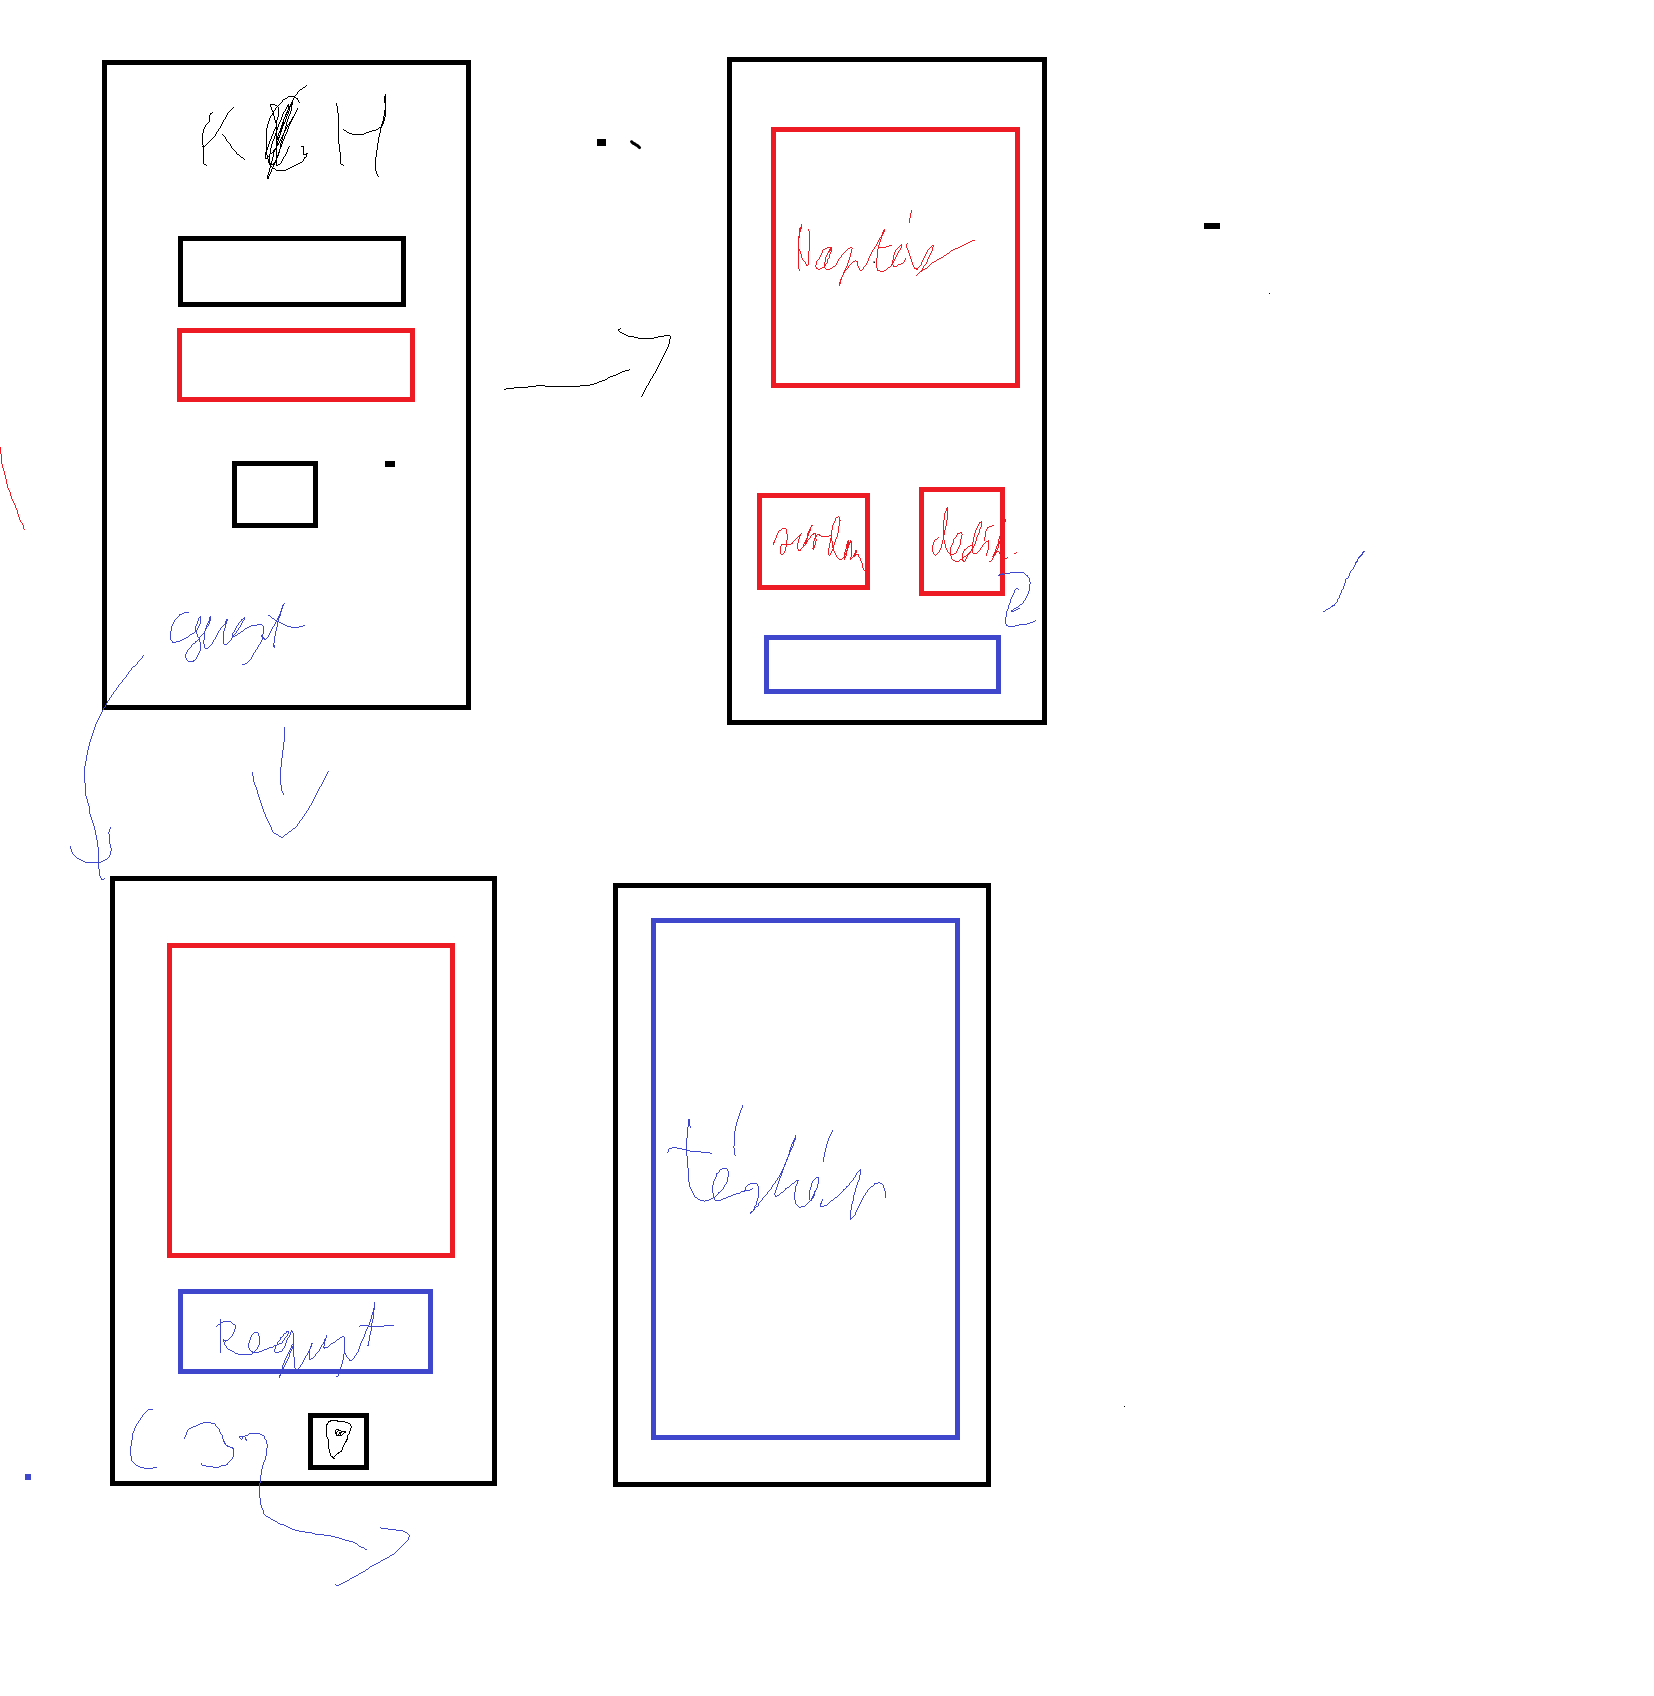
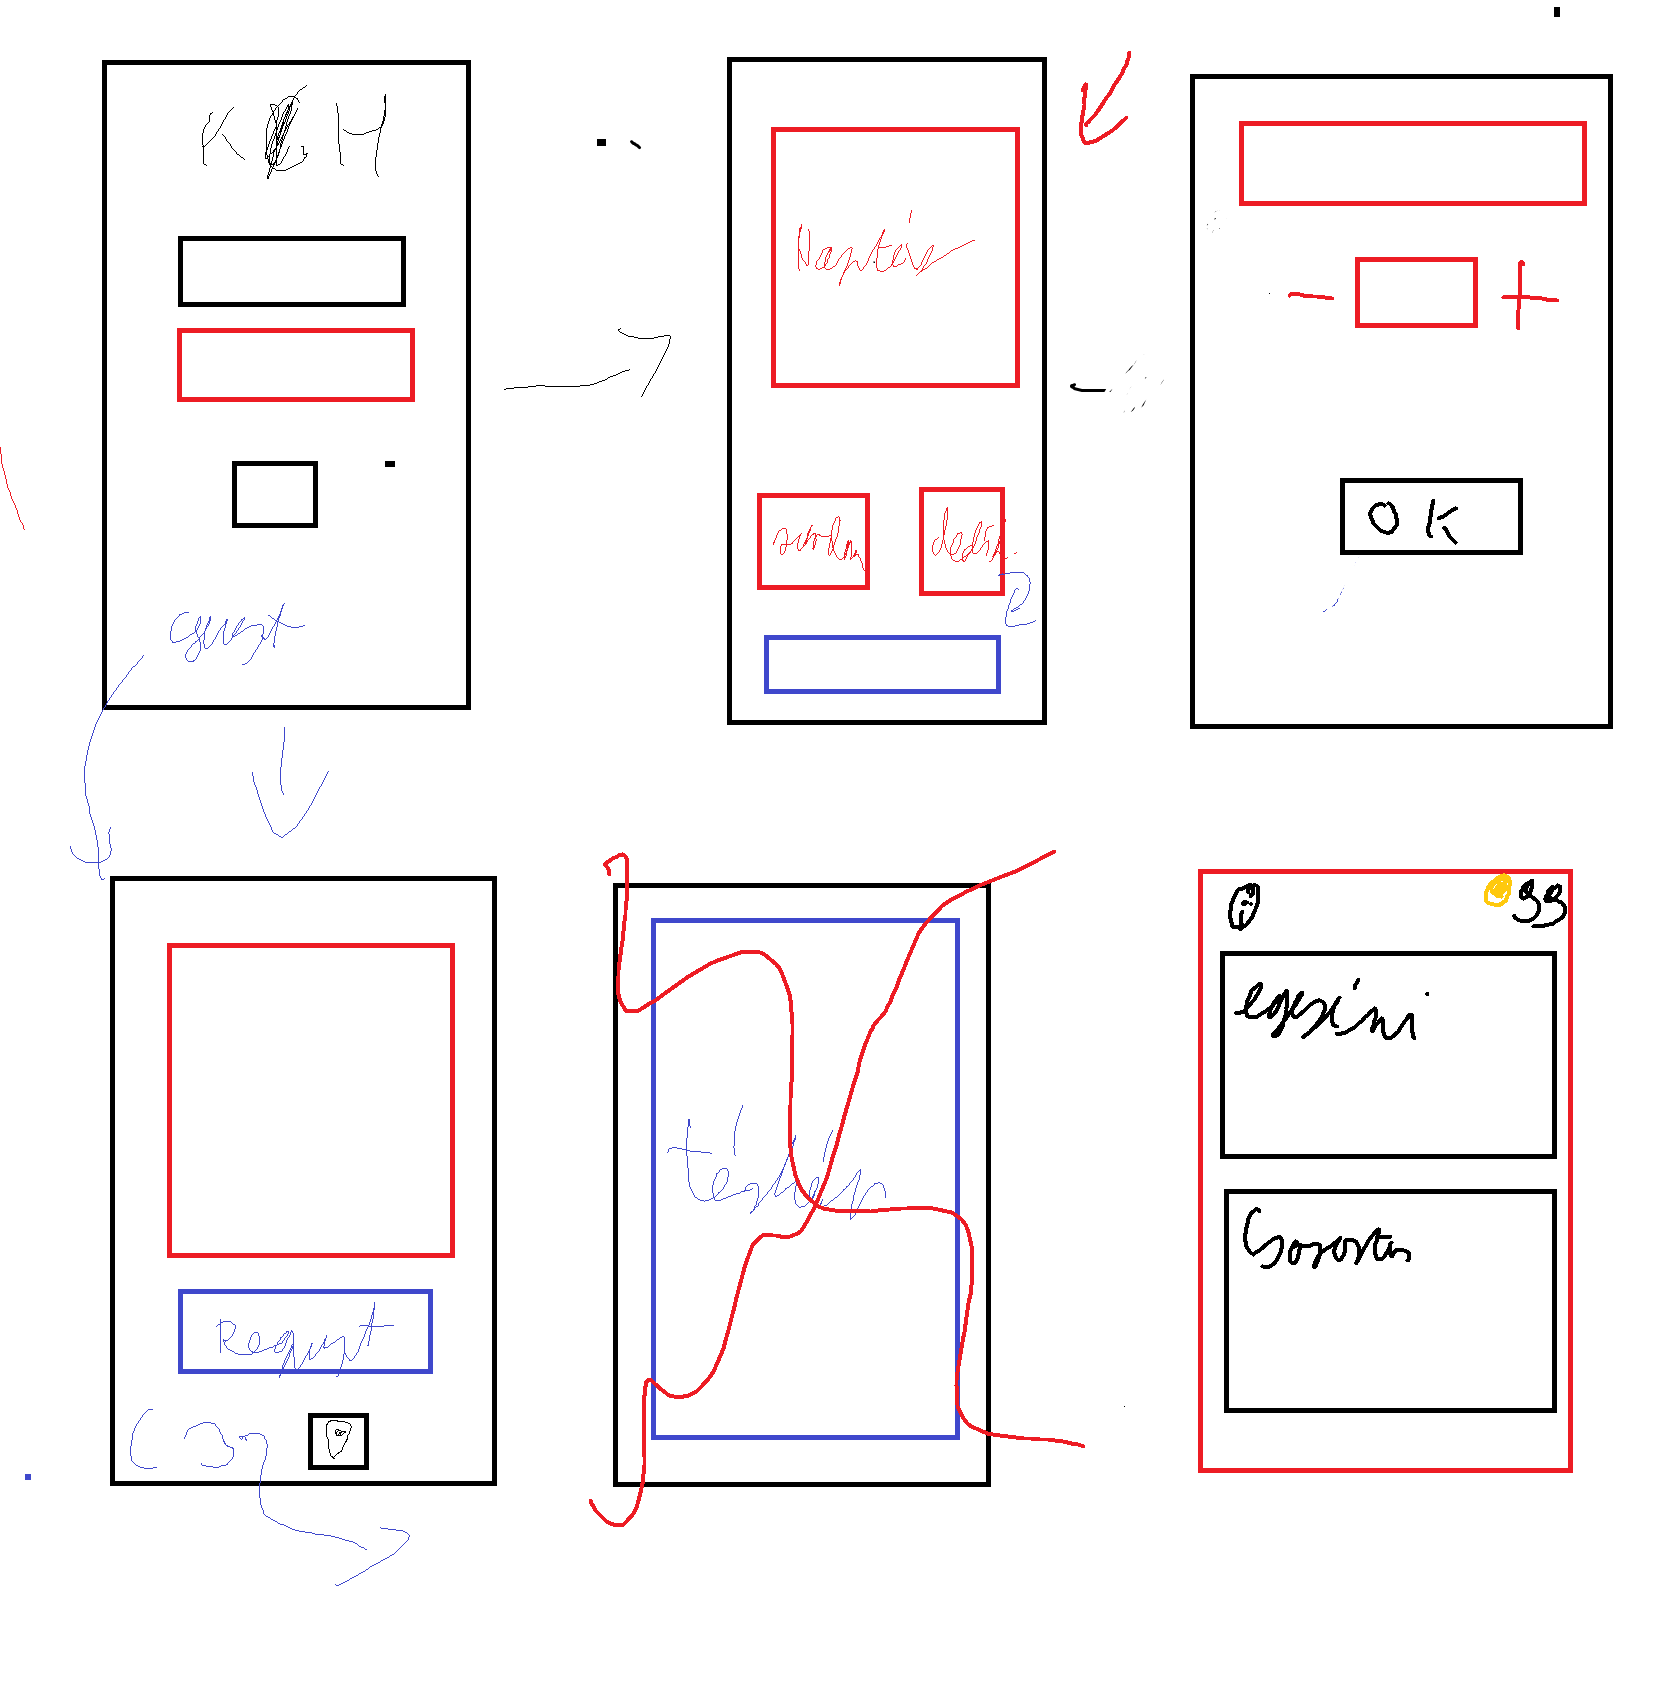
design

diff --git a/style.css b/style.css
@@ -76,14 +76,14 @@ html, body{
 #logindiv{
     background-color: rgb(0, 174, 239);
     display: flex;
-    height: 30%;
+    height: 40%;
     flex-direction: column;
     justify-content: center;
     margin-top: 20%;
     margin-bottom: 20%;
     padding: 10%;
     border-radius: 25px;
-    width: 65%;
+    width: 80%;
     align-self: center;
 }
 
@@ -91,8 +91,22 @@ html, body{
     background-color: rgb(0, 174, 239);
     display: flex;
     justify-content: center;
-    padding: 3%;
-    height: 300px;
+    height: 80px;
+    width: 100%;
+    position: fixed;
+    top: 0;
+}
+
+.bottomrow{
+    background-color: rgb(0, 174, 239);
+    display: flex;
+    justify-content: center;
+    height: 80px;
+    width: 100%;
+    position: fixed;
+    bottom: 0;
+    color: #fff;
+    font-size: 20px;
 }
 
 .logininput{
@@ -122,9 +136,149 @@ html, body{
     width:30%;
     align-self: center;
     /* background-color: rgba(228, 241, 253, 0.15); */
-    /* border-radius: 50%; */
+    border-radius: 5%;
 }
 
 .forgetpassword{
     align-self: center;
+}
+
+
+/* keres.html, atad.html */
+/* CALENDAR */
+@import url('https://fonts.googleapis.com/css2?family=Poppins:wght@400;500;600&display=swap');
+*{
+  margin: 0;
+  padding: 0;
+  box-sizing: border-box;
+  font-family: 'Poppins', sans-serif;
+}
+
+.parkreq{
+    display: flex;
+    flex-direction: column;
+    justify-content: center;
+    align-items: center;
+    height: 70%;
+    margin: 4%;
+    border-radius: 20px;
+    padding: 5%;
+    background: rgb(0, 174, 239);
+}
+body.maincalendar{
+  display: flex;
+  align-items: center;
+  justify-content: center;
+  
+  width: 100%;
+}
+.wrapper{
+  width: 100%;
+  background: #fff;
+  border-radius: 10px;
+  box-shadow: 0 15px 40px rgba(0,0,0,0.12);
+  align-self: center;
+}
+.wrapper header{
+  display: flex;
+  align-items: center;
+  padding: 25px 30px 10px;
+  justify-content: space-between;
+}
+header .icons{
+  display: flex;
+}
+header .icons span{
+  height: 38px;
+  width: 38px;
+  margin: 0 1px;
+  cursor: pointer;
+  color: #878787;
+  text-align: center;
+  line-height: 38px;
+  font-size: 1.9rem;
+  user-select: none;
+  border-radius: 50%;
+}
+.icons span:last-child{
+  margin-right: -10px;
+}
+header .icons span:hover{
+  background: #f2f2f2;
+}
+header .current-date{
+  font-size: 1.45rem;
+  font-weight: 500;
+}
+.calendar{
+  padding: 20px;
+}
+.calendar ul{
+  display: flex;
+  flex-wrap: wrap;
+  list-style: none;
+  text-align: center;
+}
+.calendar .days{
+  margin-bottom: 20px;
+}
+.calendar li{
+  color: #333;
+  width: calc(100% / 7);
+  font-size: 1.07rem;
+}
+.calendar .weeks li{
+  font-weight: 500;
+  cursor: default;
+}
+.calendar .days li{
+  z-index: 1;
+  cursor: pointer;
+  position: relative;
+  margin-top: 30px;
+}
+.days li.inactive{
+  color: #aaa;
+}
+.days li.active{
+  color: #fff;
+}
+.days li::before{
+  position: absolute;
+  content: "";
+  left: 50%;
+  top: 50%;
+  height: 40px;
+  width: 40px;
+  z-index: -1;
+  border-radius: 50%;
+  transform: translate(-50%, -50%);
+}
+.days li.active::before{
+  background: rgb(0, 174, 239);
+}
+.days li:not(.active):hover::before{
+  background: #f2f2f2;
+}
+
+.calendarbutton{
+    height: 10%;
+    width: 60%;
+    border-radius: 10px;
+    border: none;
+    background-color: rgb(0, 55, 103);
+    color: white;
+    font-size: 25px;
+    margin: 5%;
+}
+.atadbtdiv{
+    display: flex;
+}
+.atadbtdiv .calendarbutton{
+    height: 80%
+}
+
+.toprow .khlogo{
+    height: 100%;
+    width: auto;
 }

diff --git a/test.js b/test.js
@@ -1,0 +1,55 @@
+const daysTag = document.querySelector(".days"),
+currentDate = document.querySelector(".current-date"),
+prevNextIcon = document.querySelectorAll(".icons span");
+
+// getting new date, current year and month
+let date = new Date(),
+currYear = date.getFullYear(),
+currMonth = date.getMonth();
+
+// storing full name of all months in array
+const months = ["January", "February", "March", "April", "May", "June", "July",
+              "August", "September", "October", "November", "December"];
+
+const renderCalendar = () => {
+    let firstDayofMonth = new Date(currYear, currMonth, 1).getDay(), // getting first day of month
+    lastDateofMonth = new Date(currYear, currMonth + 1, 0).getDate(), // getting last date of month
+    lastDayofMonth = new Date(currYear, currMonth, lastDateofMonth).getDay(), // getting last day of month
+    lastDateofLastMonth = new Date(currYear, currMonth, 0).getDate(); // getting last date of previous month
+    let liTag = "";
+
+    for (let i = firstDayofMonth; i > 0; i--) { // creating li of previous month last days
+        liTag += `<li class="inactive">${lastDateofLastMonth - i + 1}</li>`;
+    }
+
+    for (let i = 1; i <= lastDateofMonth; i++) { // creating li of all days of current month
+        // adding active class to li if the current day, month, and year matched
+        let isToday = i === date.getDate() && currMonth === new Date().getMonth() 
+                     && currYear === new Date().getFullYear() ? "active" : "";
+        liTag += `<li class="${isToday}">${i}</li>`;
+    }
+
+    for (let i = lastDayofMonth; i < 6; i++) { // creating li of next month first days
+        liTag += `<li class="inactive">${i - lastDayofMonth + 1}</li>`
+    }
+    currentDate.innerText = `${months[currMonth]} ${currYear}`; // passing current mon and yr as currentDate text
+    daysTag.innerHTML = liTag;
+}
+renderCalendar();
+
+prevNextIcon.forEach(icon => { // getting prev and next icons
+    icon.addEventListener("click", () => { // adding click event on both icons
+        // if clicked icon is previous icon then decrement current month by 1 else increment it by 1
+        currMonth = icon.id === "prev" ? currMonth - 1 : currMonth + 1;
+
+        if(currMonth < 0 || currMonth > 11) { // if current month is less than 0 or greater than 11
+            // creating a new date of current year & month and pass it as date value
+            date = new Date(currYear, currMonth, new Date().getDate());
+            currYear = date.getFullYear(); // updating current year with new date year
+            currMonth = date.getMonth(); // updating current month with new date month
+        } else {
+            date = new Date(); // pass the current date as date value
+        }
+        renderCalendar(); // calling renderCalendar function
+    });
+});

diff --git a/atad2.html b/atad2.html
@@ -1,18 +1,19 @@
 <!DOCTYPE html>
-<html lang="en">
-   
-<head>
-    <link rel="stylesheet" href="https://fonts.googleapis.com/css2?family=Material+Symbols+Rounded:opsz,wght,FILL,GRAD@20..48,100..700,0..1,-50..200">
+<!-- Coding By CodingNepal - youtube.com/codingnepal -->
+<html lang="en" dir="ltr">
+  <head>
+    <meta charset="utf-8">
+    <title>Dynamic Calendar JavaScript | CodingNepal</title>
     <link rel="stylesheet" href="style.css">
-    <meta charset="UTF-8">
-    <meta http-equiv="X-UA-Compatible" content="IE=edge">
     <meta name="viewport" content="width=device-width, initial-scale=1.0">
-    <title>Document</title>
-    <link href="https://cdn.jsdelivr.net/npm/bootstrap@5.3.0-alpha1/dist/css/bootstrap.min.css" rel="stylesheet" integrity="sha384-GLhlTQ8iRABdZLl6O3oVMWSktQOp6b7In1Zl3/Jr59b6EGGoI1aFkw7cmDA6j6gD" crossorigin="anonymous">
+    <!-- Google Font Link for Icons -->
+    <link rel="stylesheet" href="https://fonts.googleapis.com/css2?family=Material+Symbols+Rounded:opsz,wght,FILL,GRAD@20..48,100..700,0..1,-50..200">
     <script src="test.js" defer></script>
-</head>
-<body>
-
+  </head>
+  <body>
+    <div class="toprow">
+        <img class="khlogo" src="/images/logo3.png" alt="">
+    </div>
     <div class="parkreq">
         <div class="maincalendar">
             <div class="wrapper">
@@ -38,11 +39,14 @@
             </div>
              
         </div>
-        <button class="btn btn-danger" id="random">Random</button>
-        <button class="btn btn-success" id="lend">Átadom másnak</button>
+        <div class="atadbtdiv">
+            <button class="calendarbutton" id="random">Random</button>
+            <button class="calendarbutton" id="lend">Átadom másnak</button>
+        </div>
+        
         
     </div>
-    <script src="script.js"></script>
-    <script src="https://cdn.jsdelivr.net/npm/bootstrap@5.3.0-alpha1/dist/js/bootstrap.bundle.min.js" integrity="sha384-w76AqPfDkMBDXo30jS1Sgez6pr3x5MlQ1ZAGC+nuZB+EYdgRZgiwxhTBTkF7CXvN" crossorigin="anonymous"></script>
-</body>
+    
+    <div class="bottomrow"></div>
+  </body>
 </html>

diff --git a/keres.html b/keres.html
@@ -1,18 +1,19 @@
 <!DOCTYPE html>
-<html lang="en">
-   
-<head>
-    <link rel="stylesheet" href="https://fonts.googleapis.com/css2?family=Material+Symbols+Rounded:opsz,wght,FILL,GRAD@20..48,100..700,0..1,-50..200">
+<!-- Coding By CodingNepal - youtube.com/codingnepal -->
+<html lang="en" dir="ltr">
+  <head>
+    <meta charset="utf-8">
+    <title>Dynamic Calendar JavaScript | CodingNepal</title>
     <link rel="stylesheet" href="style.css">
-    <meta charset="UTF-8">
-    <meta http-equiv="X-UA-Compatible" content="IE=edge">
     <meta name="viewport" content="width=device-width, initial-scale=1.0">
-    <title>Document</title>
-    <link href="https://cdn.jsdelivr.net/npm/bootstrap@5.3.0-alpha1/dist/css/bootstrap.min.css" rel="stylesheet" integrity="sha384-GLhlTQ8iRABdZLl6O3oVMWSktQOp6b7In1Zl3/Jr59b6EGGoI1aFkw7cmDA6j6gD" crossorigin="anonymous">
+    <!-- Google Font Link for Icons -->
+    <link rel="stylesheet" href="https://fonts.googleapis.com/css2?family=Material+Symbols+Rounded:opsz,wght,FILL,GRAD@20..48,100..700,0..1,-50..200">
     <script src="test.js" defer></script>
-</head>
-<body>
-
+  </head>
+  <body>
+    <div class="toprow">
+        <img class="khlogo" src="/images/logo3.png" alt="">
+    </div>
     <div class="parkreq">
         <div class="maincalendar">
             <div class="wrapper">
@@ -38,11 +39,10 @@
             </div>
              
         </div>
-        <button class="btn btn-danger" id="random">Random</button>
-        <button class="btn btn-success" id="lend">Átadom másnak</button>
+        <button class="calendarbutton" id="requestbt">Lefoglalom</button>
         
     </div>
-    <script src="script.js"></script>
-    <script src="https://cdn.jsdelivr.net/npm/bootstrap@5.3.0-alpha1/dist/js/bootstrap.bundle.min.js" integrity="sha384-w76AqPfDkMBDXo30jS1Sgez6pr3x5MlQ1ZAGC+nuZB+EYdgRZgiwxhTBTkF7CXvN" crossorigin="anonymous"></script>
-</body>
+    
+    <div class="bottomrow">Parkoló helyed:</div>
+  </body>
 </html>

diff --git a/index.html b/index.html
@@ -9,12 +9,12 @@
 
 </head>
 <body>
-    <div class="toprow">
+    <!-- <div class="toprow">
         <img class="khlogo" src="/images/logo3.png" alt="">
-    </div>
+    </div> -->
     
     <div class="mainContainer">
-        <img class="khlogo" src="/images/khlogo.png" alt="">
+        <img class="khlogo" src="/images/logo3.png" alt="">
         <div id="logindiv">
             
             <input class="logininput" type="text" placeholder="UserName">
